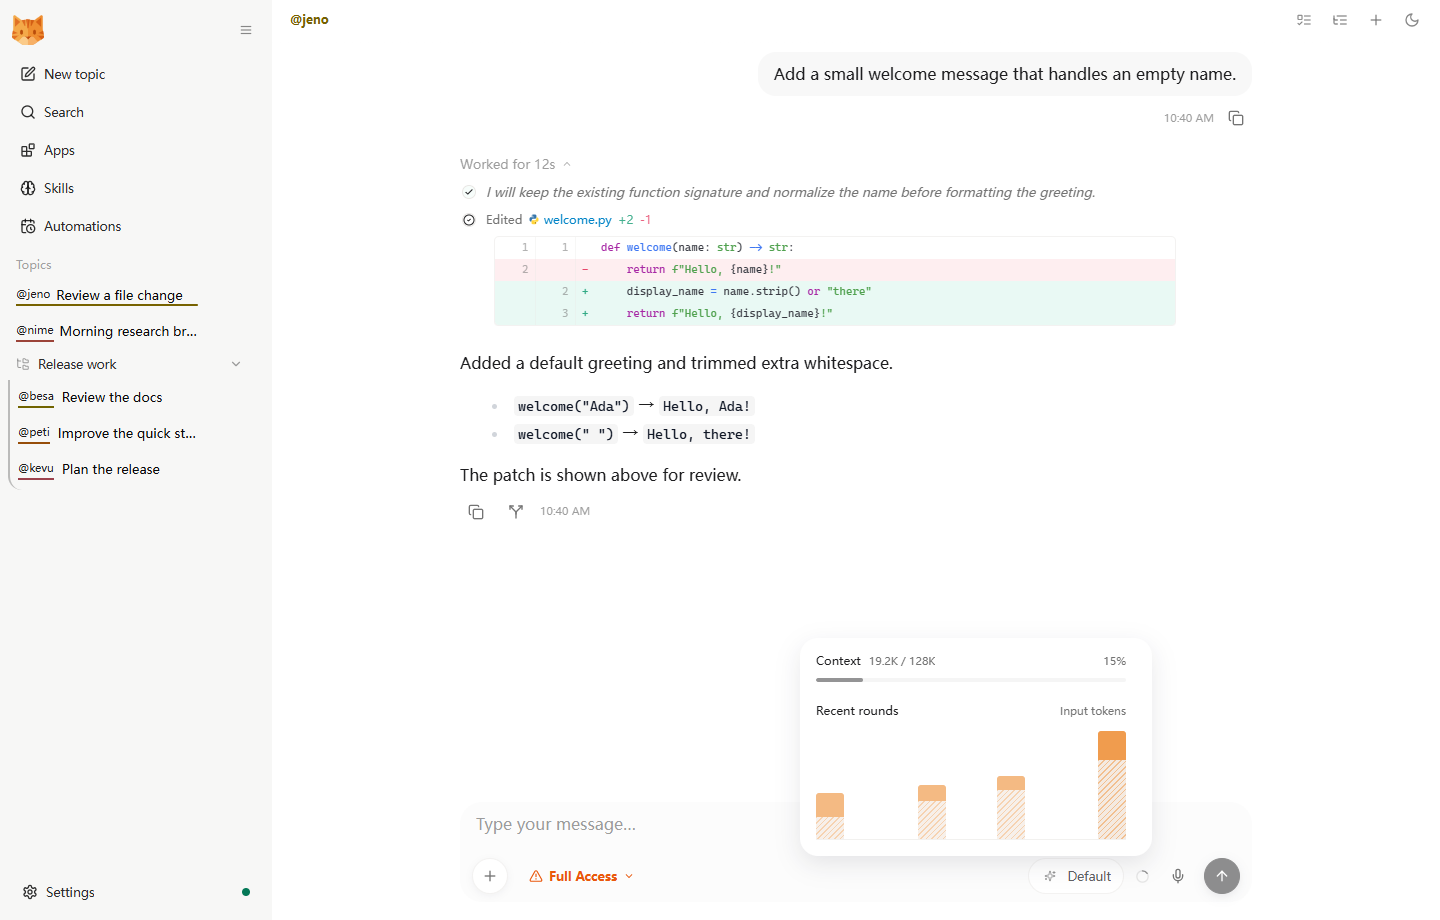
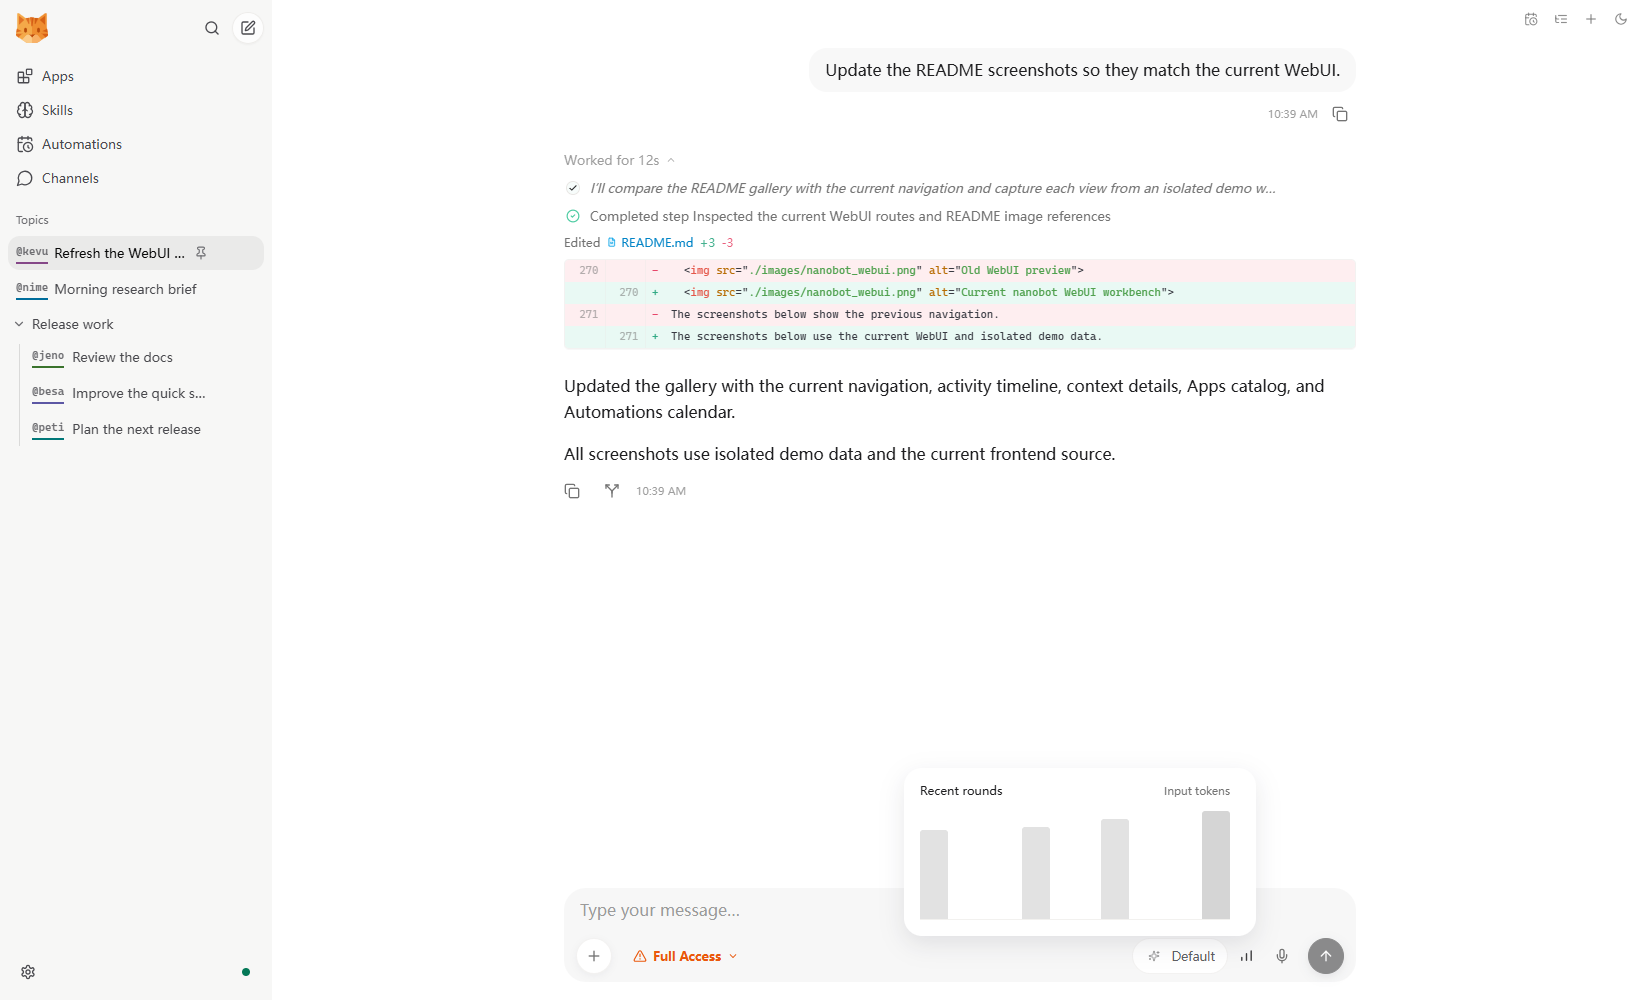
docs: refresh README WebUI screenshots

diff --git a/README.md b/README.md
@@ -269,7 +269,7 @@ The screenshots below use example conversations, illustrative token counts, and 
 
 <p align="center">
   <a href="./images/nanobot_webui-source.png">
-    <img src="./images/nanobot_webui.png" alt="nanobot WebUI preview with model, project, Apps, Skills, and Automations controls" width="900">
+    <img src="./images/nanobot_webui.png" alt="nanobot WebUI conversation with sidebar topics, expanded agent activity, an inline diff, and composer controls" width="900">
   </a>
 </p>
 
@@ -313,10 +313,10 @@ Use Apps to connect MCP servers, enable Agent Plugins, and manage local CLI App 
 
 ### Let recurring work run on a schedule
 
-Ask for an automation from the topic that should receive its results. Review the message, schedule, linked chat, and run history in Automations; pause or edit it as your needs change. Local triggers let a script start a saved task on demand.
+Ask for an automation from the topic that should receive its results. Use **Tasks** to review and manage schedules, or **Calendar** to scan completed and upcoming runs by date. Local triggers let a script start a saved task on demand.
 
 <p align="center">
-  <img src="./images/nanobot-automations.png" alt="The Automations view with example recurring tasks, a selected daily brief, its schedule, linked chat, and management controls" width="900">
+  <img src="./images/nanobot-automations.png" alt="The Automations calendar with completed and upcoming recurring tasks arranged by date" width="900">
 </p>
 
 Keep the gateway running for scheduled delivery. [Explore Automations →](./docs/automations.md)
